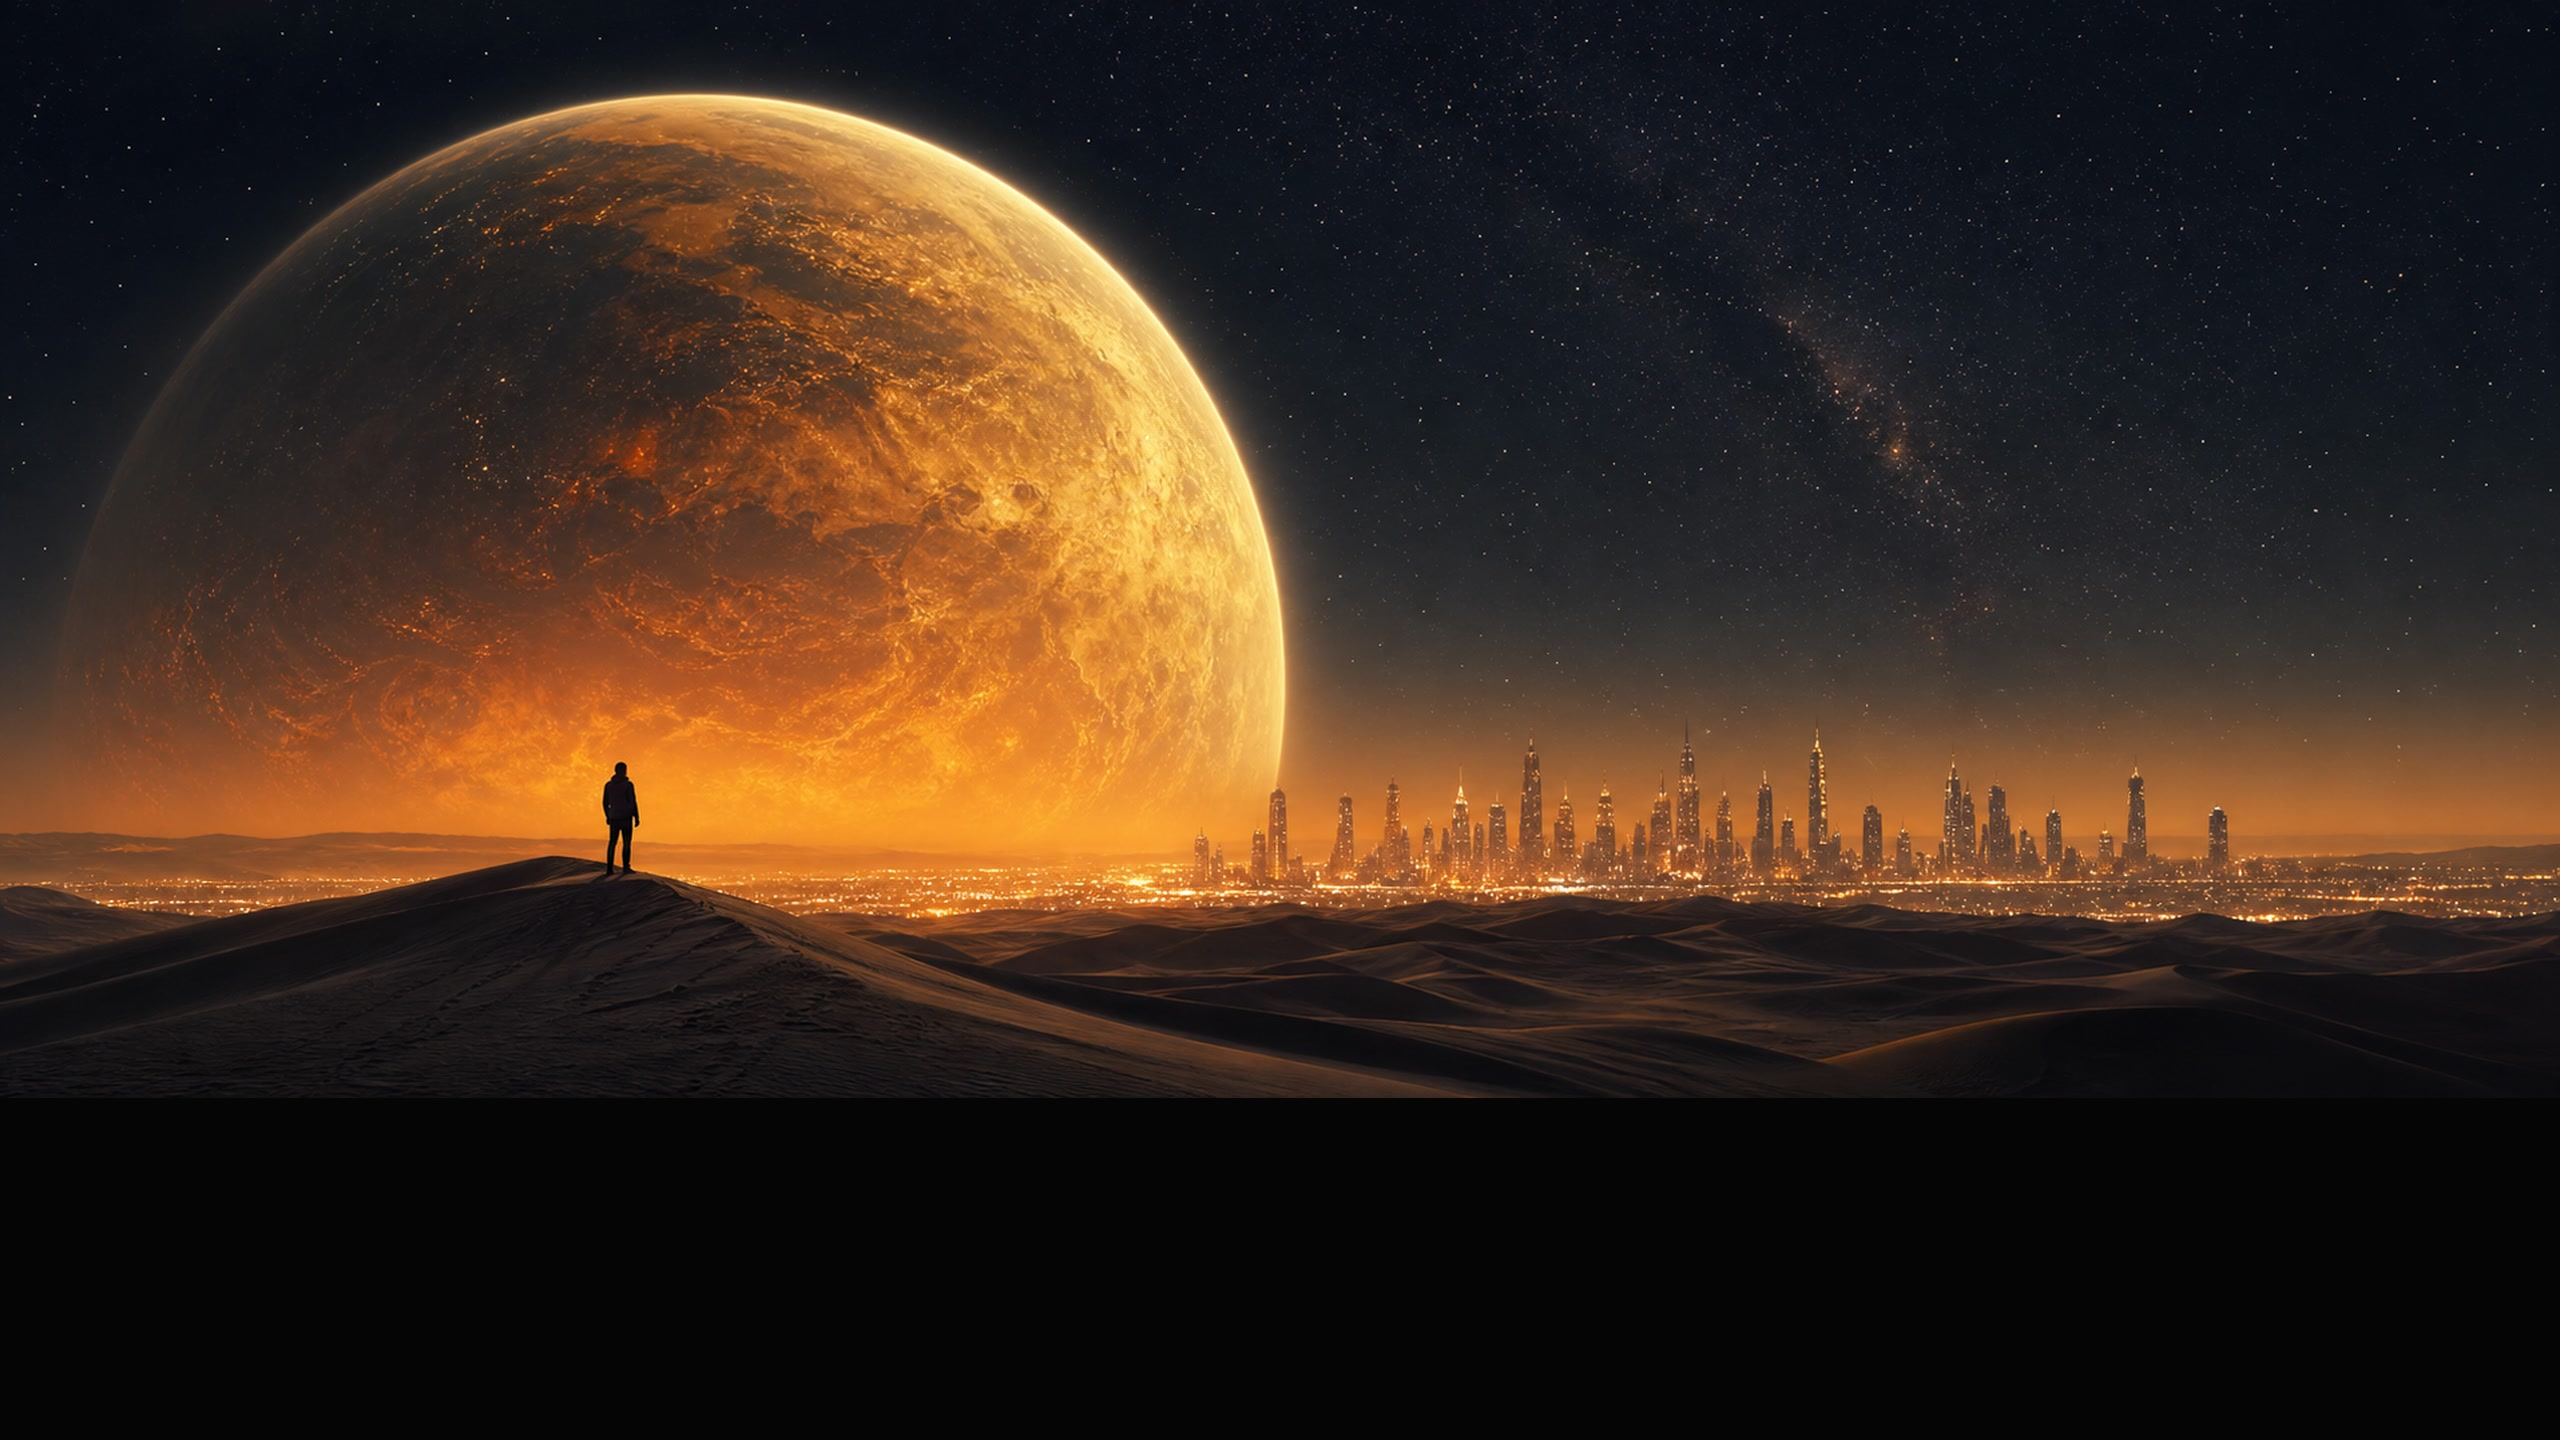
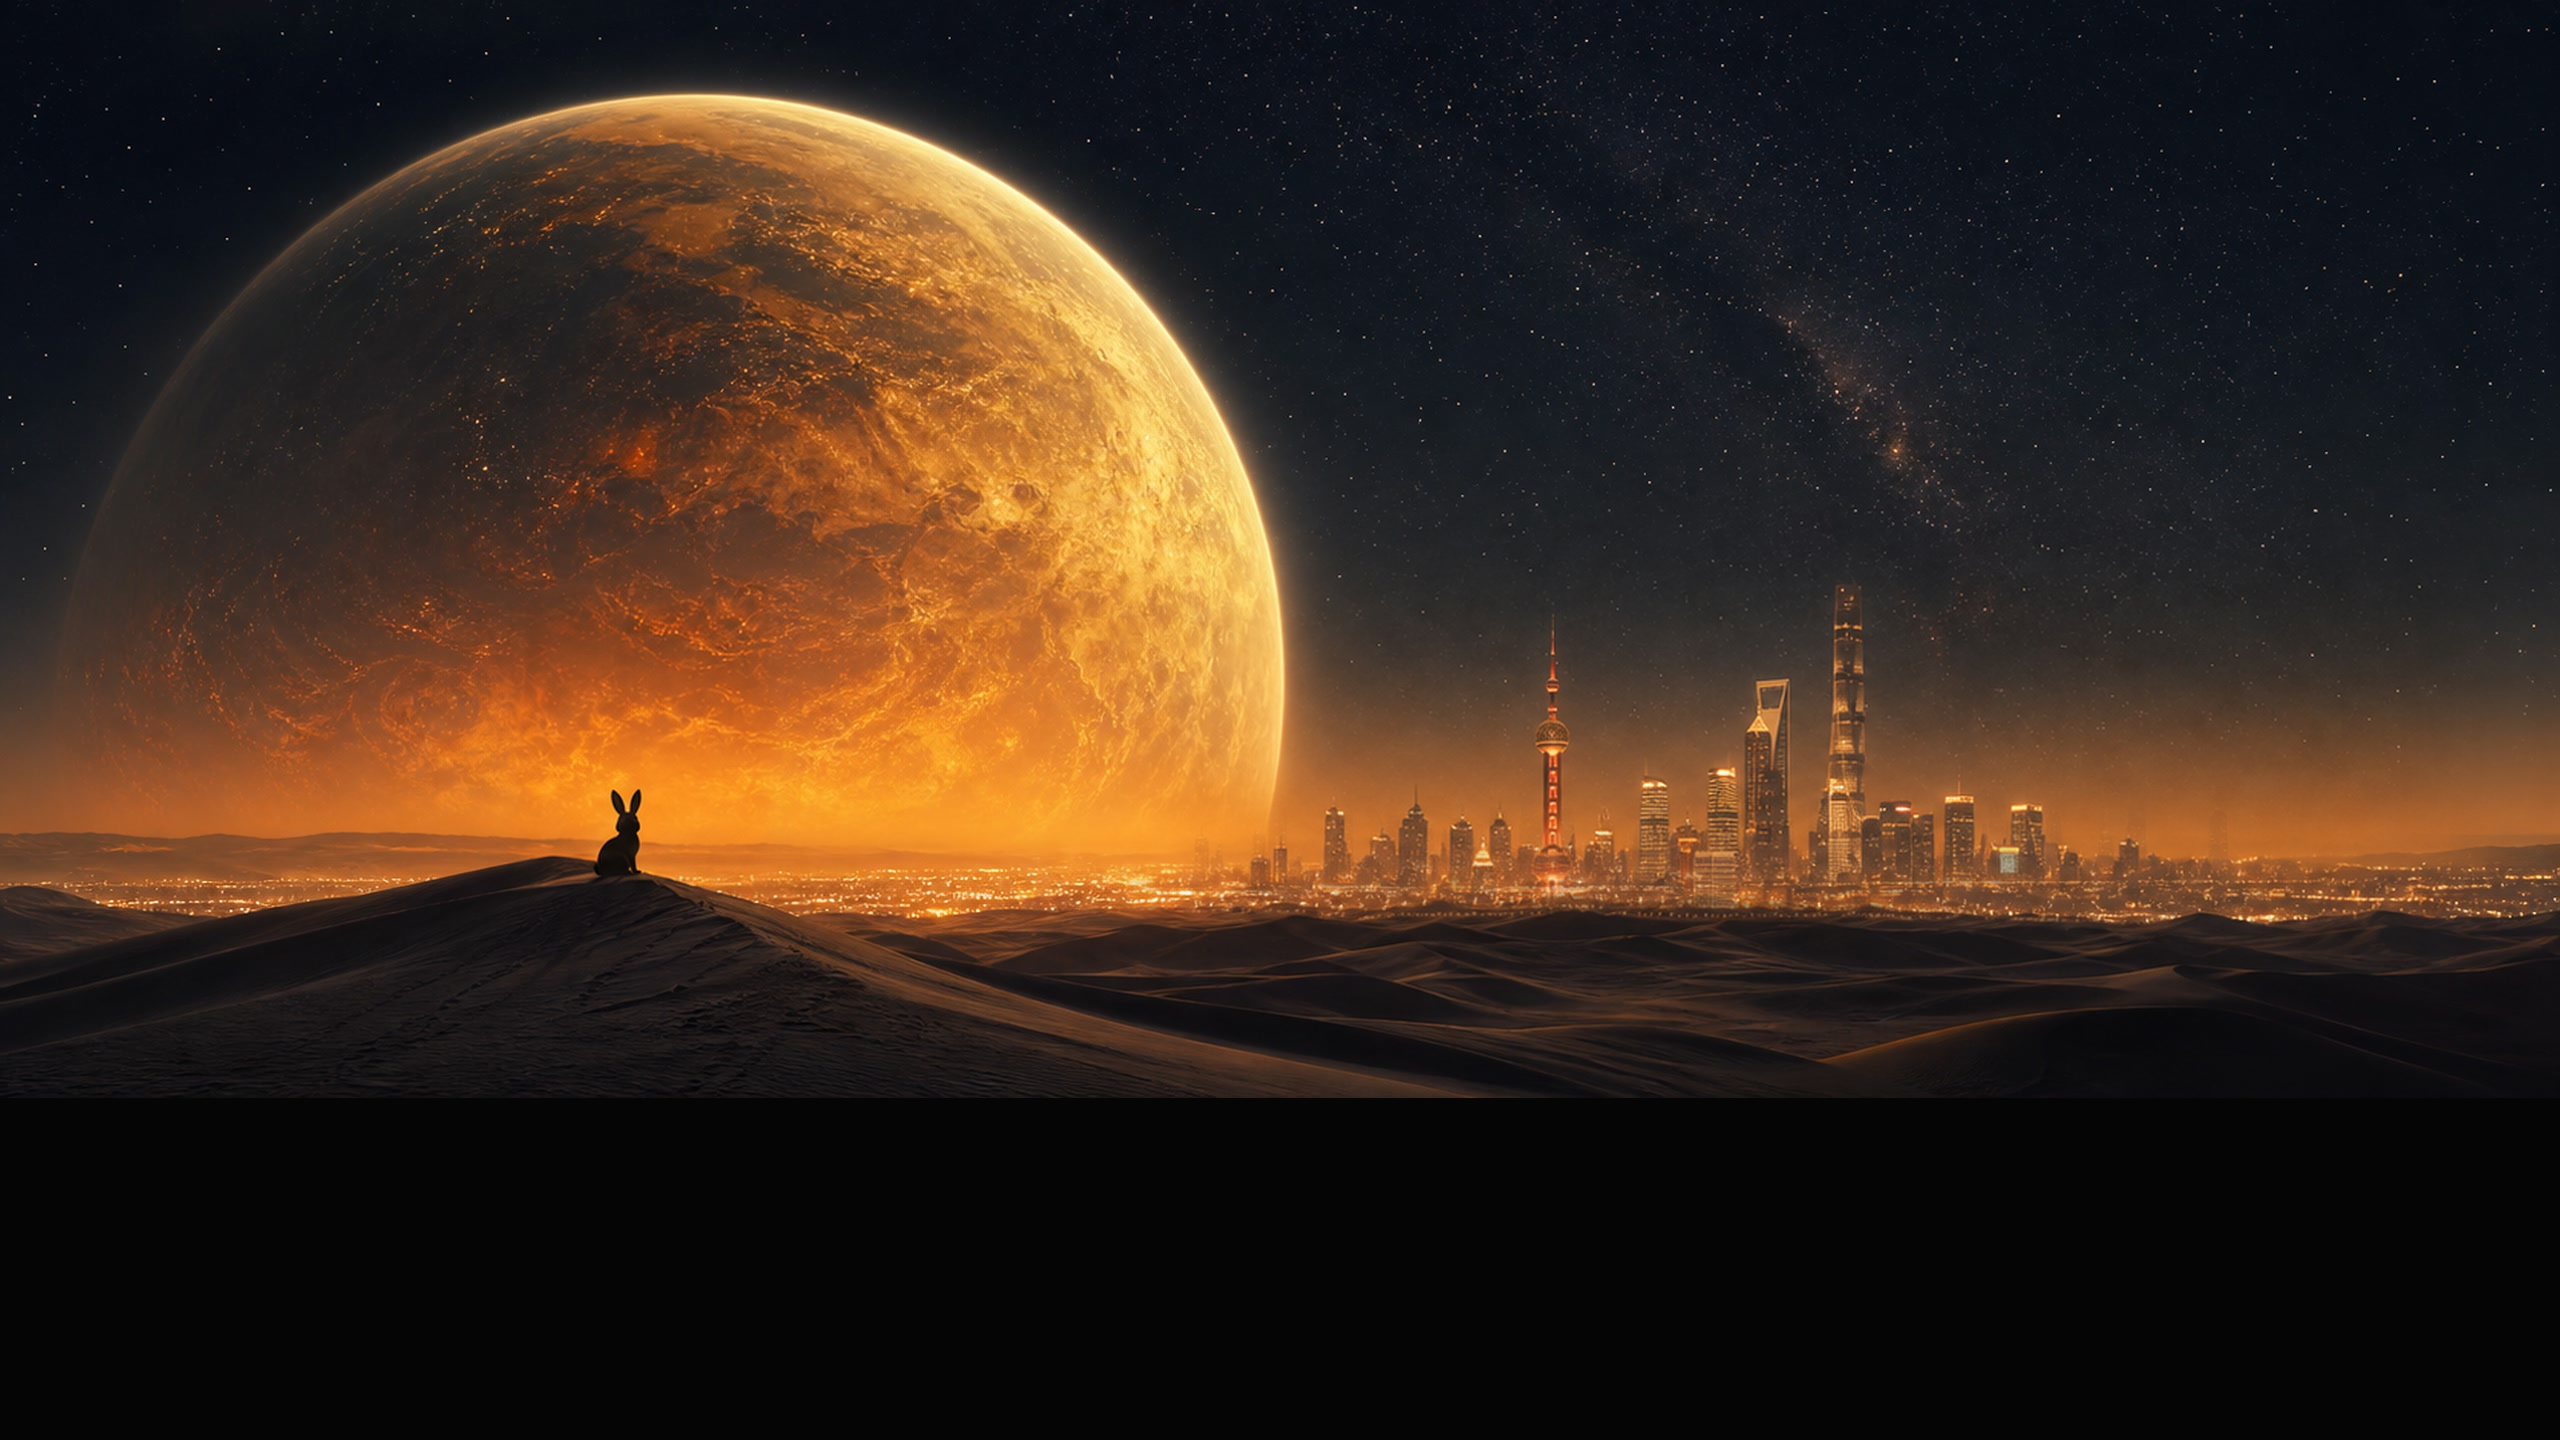
refactor(hero): rebrand to Cyber Rabbit with Interstellar-style visual redesign
- Replace Dong Lin with Cyber Rabbit branding across metadata and components
- Apply Cinzel serif font with uppercase/letter-spacing for Interstellar aesthetic
- Shift shimmer from warm gradient to silver-white with narrow highlight band
- Realign hero layout to right-aligned with simplified tagline
- Increase main container width from max-w-6xl to max-w-7xl
- Add Starfield component background and update hero image

Changed region(s): [[0.4375, 0.4062, 0.9688, 0.6562], [0.2188, 0.5312, 0.2812, 0.625]]

diff --git a/app/layout.tsx b/app/layout.tsx
@@ -3,18 +3,18 @@ import "./globals.css";
 
 export const metadata: Metadata = {
   metadataBase: new URL("https://lindong.live"),
-  title: "Dong Lin | 用 AI Agent 重构软件工程",
+  title: "Cyber Rabbit | 用 AI Agent 重构软件工程",
   description:
-    "Dong Lin的个人网站：技术&产品人，长期关注 AI Agent、软件工程、开源基础设施与 AI 产品创业。",
+    "Cyber Rabbit的个人网站：技术&产品人，长期关注 AI Agent、软件工程、开源基础设施与 AI 产品创业。",
   alternates: {
     canonical: "https://lindong.live",
   },
   openGraph: {
-    title: "Dong Lin | 用 AI Agent 重构软件工程",
+    title: "Cyber Rabbit | 用 AI Agent 重构软件工程",
     description:
-      "技术&产品人 · 用 AI Agent 重构软件工程。了解Dong Lin的经历、当前方向、作品与联系方式。",
+      "技术&产品人 · 用 AI Agent 重构软件工程。了解Cyber Rabbit的经历、当前方向、作品与联系方式。",
     url: "https://lindong.live",
-    siteName: "Dong Lin个人网站",
+    siteName: "Cyber Rabbit个人网站",
     locale: "zh_CN",
     type: "website",
     images: [
@@ -22,13 +22,13 @@ export const metadata: Metadata = {
         url: "/og-image.svg",
         width: 1200,
         height: 630,
-        alt: "Dong Lin个人网站预览图",
+        alt: "Cyber Rabbit个人网站预览图",
       },
     ],
   },
   twitter: {
     card: "summary_large_image",
-    title: "Dong Lin | 用 AI Agent 重构软件工程",
+    title: "Cyber Rabbit | 用 AI Agent 重构软件工程",
     description: "技术&产品人 · 用 AI Agent 重构软件工程",
     images: ["/og-image.svg"],
   },
@@ -46,6 +46,12 @@ export default function RootLayout({
 }>) {
   return (
     <html lang="zh-CN" className="h-full scroll-smooth">
+      <head>
+        <link
+          href="https://fonts.googleapis.com/css2?family=Cinzel:wght@400;500;700&display=swap"
+          rel="stylesheet"
+        />
+      </head>
       <body className="min-h-full bg-background text-foreground antialiased">
         {children}
       </body>

diff --git a/app/globals.css b/app/globals.css
@@ -113,17 +113,26 @@ body::after {
 }
 
 .hero-name {
-  background: linear-gradient(90deg, #fbbf24, #f97316, #ef4444, #fbbf24);
-  background-size: 300% auto;
+  background: linear-gradient(
+    90deg,
+    rgba(255, 255, 255, 0.85) 0%,
+    rgba(255, 255, 255, 0.85) 42%,
+    rgba(255, 255, 255, 0.98) 48%,
+    rgba(255, 255, 255, 1) 50%,
+    rgba(255, 255, 255, 0.98) 52%,
+    rgba(255, 255, 255, 0.85) 58%,
+    rgba(255, 255, 255, 0.85) 100%
+  );
+  background-size: 200% auto;
   -webkit-background-clip: text;
   -webkit-text-fill-color: transparent;
   background-clip: text;
-  animation: nameShimmer 3s linear infinite;
+  animation: nameShimmer 3.6s linear infinite;
 }
 
 @keyframes nameShimmer {
-  0%   { background-position: 0% center; }
-  100% { background-position: 300% center; }
+  0%   { background-position: 130% center; }
+  100% { background-position: -30% center; }
 }
 
 ::selection {

diff --git a/components/Hero.tsx b/components/Hero.tsx
@@ -4,20 +4,17 @@ export default function Hero() {
   return (
     <section
       id="hero"
-      className="relative min-h-[82svh] scroll-mt-20 py-16 flex items-center md:py-20"
+      className="relative min-h-[82svh] scroll-mt-20 py-16 flex items-start justify-end pt-[18vh] md:py-20 md:pt-[18vh]"
     >
-      <div className="max-w-3xl">
-        <h1 className="hero-name pb-2 text-5xl font-bold tracking-tight sm:text-7xl md:text-8xl">
-          Dong Lin
+      <div className="text-right">
+        <h1 className="hero-name whitespace-nowrap pb-2 text-5xl font-light uppercase tracking-[0.12em] sm:text-7xl md:text-8xl" style={{ fontFamily: "'Cinzel', serif" }}>
+          Cyber Rabbit
         </h1>
-        <p className="mt-8 max-w-2xl text-2xl leading-snug font-semibold text-foreground sm:text-3xl">
-          技术&产品人 · 用 AI Agent 重构软件工程
-        </p>
-        <p className="mt-6 max-w-2xl text-base leading-8 text-muted sm:text-lg">
-          从分布式系统、机器学习基础设施到 AI 产品创业，长期关注怎样把复杂工程变成可复用、可规模化、能真实提升效率的系统。
+        <p className="mt-6 text-2xl font-light uppercase tracking-[0.2em] text-white/70 sm:text-3xl" style={{ fontFamily: "'Cinzel', serif" }}>
+          用 AI 重构创作
         </p>
 
-        <div className="mt-8 flex flex-wrap gap-3">
+        <div className="mt-8 flex flex-wrap justify-end gap-3">
           {tags.map((tag) => (
             <span
               key={tag}

diff --git a/app/page.tsx b/app/page.tsx
@@ -3,14 +3,16 @@ import CurrentWork from "@/components/CurrentWork";
 import Hero from "@/components/Hero";
 import Projects from "@/components/Projects";
 import ShootingStars from "@/components/ShootingStars";
+import Starfield from "@/components/Starfield";
 import Timeline from "@/components/Timeline";
 
 export default function Home() {
   return (
     <div className="relative isolate min-h-screen">
+      <Starfield />
       <ShootingStars />
 
-      <main className="mx-auto w-full max-w-6xl px-5 sm:px-8">
+      <main className="mx-auto w-full max-w-7xl px-5 sm:px-8">
         <Hero />
         <Timeline />
         <CurrentWork />
@@ -18,9 +20,9 @@ export default function Home() {
         <Contact />
       </main>
 
-      <footer className="mx-auto w-full max-w-6xl px-5 pb-10 pt-4 text-sm text-muted sm:px-8">
+      <footer className="mx-auto w-full max-w-7xl px-5 pb-10 pt-4 text-sm text-muted sm:px-8">
         <div className="border-t border-white/10 pt-6">
-          © 2026 Dong Lin
+          © 2026 Cyber Rabbit
         </div>
       </footer>
     </div>

diff --git a/components/Contact.tsx b/components/Contact.tsx
@@ -20,7 +20,7 @@ export default function Contact() {
         联系
       </h2>
       <p className="mb-8 max-w-2xl text-sm leading-7 text-muted sm:text-base">
-        如果你也在做 AI Agent、开发者工具、工程基础设施或 AI 产品创业，欢迎联系。
+        如果你也在做 AI Agent、Agent 基础设施或 AI 产品创业，欢迎联系。
       </p>
       <div className="flex gap-4">
         {links.map((link) => {